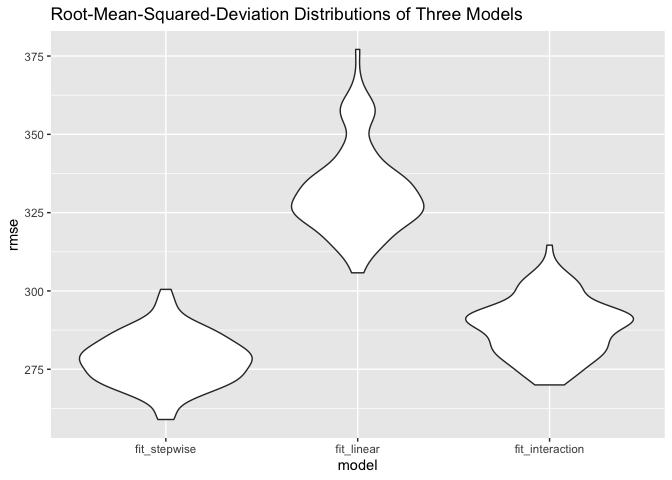
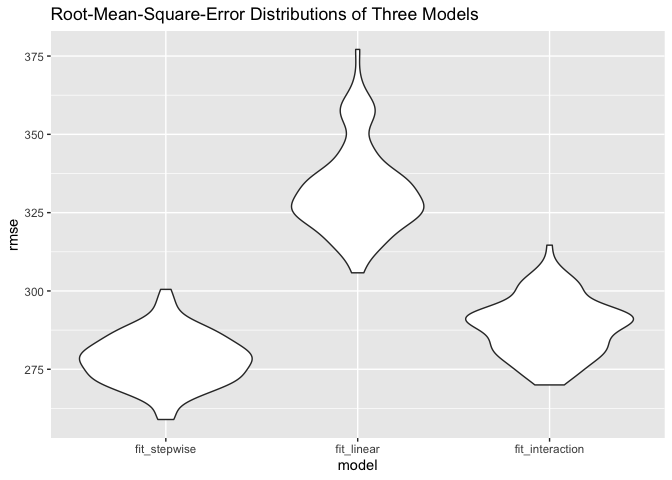
Density plots for r^2 and log(beta0*beta1) under bootstrapping are plotted by using functions like unnest(), mutate(), select(), pivot_wider(), geom_density(). Confidence intervals were obtained by using quantile() function.

Changed region(s): [[0.2812, 0.0, 0.7812, 0.0625]]

diff --git a/p8105_hw6_pz2281.md b/p8105_hw6_pz2281.md
@@ -156,8 +156,8 @@ broom::tidy(my_fit) %>% knitr::kable()
 
 However, I also want to use the step-wise model selection
 method(bi-directional) to fit a model and compare it with my
-hypothesized model. The one that has higher adjusted R^2 value would be
-selected as the hypothesized model.
+hypothesized model. The one that has higher adjusted *r*<sup>2</sup>
+value would be selected as the hypothesized model.
 
 Step-wise model selection:
 
@@ -193,8 +193,8 @@ broom::tidy(fit_stepwise) %>% knitr::kable()
 | ppwt        |    -0.9794526 |   0.5658847 |  -1.730834 | 0.0835526 |
 
 As shown in the table, the model fitted using step-wise selection has
-higher R^2 values. So the model I would use as hypothesized model is
-fit\_stepwise.
+higher *r*<sup>2</sup> value. So the model I would use as hypothesized
+model is fit\_stepwise.
 
 Plot of model residuals against fitted values:
 
@@ -294,7 +294,7 @@ cv_df %>%
   mutate(model = fct_inorder(model)) %>% 
   ggplot(aes(x = model, y = rmse)) + geom_violin() +
   labs(
-    title = "Root-Mean-Squared-Deviation Distributions of Three Models"
+    title = "Root-Mean-Square-Error Distributions of Three Models"
   )
 ```
 
@@ -332,3 +332,127 @@ cv_df %>%
 Now, it is obvious that the average rmse is lowest for the hypothesized
 model(fit\_stepwise). This model performs best comparing to the other
 two models.
+
+## Problem 2
+
+Importing the data
+
+``` r
+weather_df = 
+  rnoaa::meteo_pull_monitors(
+    c("USW00094728"),
+    var = c("PRCP", "TMIN", "TMAX"), 
+    date_min = "2017-01-01",
+    date_max = "2017-12-31") %>%
+  mutate(
+    name = recode(id, USW00094728 = "CentralPark_NY"),
+    tmin = tmin / 10,
+    tmax = tmax / 10) %>%
+  select(name, id, everything())
+```
+
+    ## Registered S3 method overwritten by 'hoardr':
+    ##   method           from
+    ##   print.cache_info httr
+
+    ## using cached file: ~/Library/Caches/R/noaa_ghcnd/USW00094728.dly
+
+    ## date created (size, mb): 2021-10-12 16:05:15 (7.604)
+
+    ## file min/max dates: 1869-01-01 / 2021-10-31
+
+Bootstrapping the data:
+
+``` r
+bs_weather = weather_df %>% 
+  bootstrap(n = 5000) %>% 
+  mutate(fit = map(strap, ~lm(tmax ~ tmin, data = .x))) %>% 
+  mutate(results = map(fit, broom::tidy)) %>% 
+  mutate(results_2 = map(fit, broom::glance))
+```
+
+Making density plots and obtaining 95% confidence intervals for
+*r̂*<sup>2</sup> and $log(\\hat{\\beta\_0}\*\\hat{\\beta\_1})$.
+
+``` r
+#Density plot for R^2 values
+bs_weather %>% 
+  unnest(results_2) %>% 
+  select(r.squared) %>% 
+  ggplot(aes(x = r.squared)) + 
+  geom_density() +
+  labs(
+    title = "Distribution of R-sqaured values",
+    x = "Estimated R-sqaured"
+  )
+```
+
+![](p8105_hw6_pz2281_files/figure-gfm/unnamed-chunk-14-1.png)<!-- -->
+
+Under repeated sampling of the weather data, the distribution of
+estimated *R*<sup>2</sup> values of the fitted model is approximately
+normal and centered around 0.91.
+
+95% confidence interval of estimated *R*<sup>2</sup>:
+
+``` r
+#Obtaining 95% confidence interval for R^2 estimates
+bs_weather %>% 
+  unnest(results_2) %>% 
+  select(r.squared) %>% 
+  summarise(
+    ci_lower = quantile(r.squared, 0.025),
+    ci_higher = quantile(r.squared, 0.975)
+  ) %>% knitr::kable()
+```
+
+| ci\_lower | ci\_higher |
+|----------:|-----------:|
+| 0.8936977 |  0.9274807 |
+
+Distribution of $log(\\hat{\\beta\_0}\*\\hat{\\beta\_1})$:
+
+``` r
+beta_bs_weather = bs_weather %>%   
+  select(-strap, -fit, -results_2) %>% 
+  unnest(results) %>% 
+  select(.id, term, estimate) %>% 
+  pivot_wider(
+    names_from = term, 
+    values_from = estimate
+  ) %>% 
+  rename(
+    id = .id, beta_0 = `(Intercept)`, beta_1 = tmin
+  ) %>% 
+  mutate(log_multiples = log(beta_0*beta_1))
+
+#density plot for log(beta_0 * beta_1)
+beta_bs_weather %>% 
+  ggplot(aes(x = log_multiples)) +
+  geom_density() +
+  labs(
+    title = "Distribution of log(beta_0*beta_1)",
+    x = "Estimated log(beta_0*beta_1)"
+  )
+```
+
+![](p8105_hw6_pz2281_files/figure-gfm/unnamed-chunk-16-1.png)<!-- -->
+
+Under repeated sampling, the value of estimated
+$log(\\hat{\\beta\_0}\*\\hat{\\beta\_1})$ is centered around 2 to 2.025.
+And there is a slightly longer tail on the left, indicating having lower
+estimated values occasionally.
+
+95% confidence interval for $log(\\hat{\\beta\_0}\*\\hat{\\beta\_1})$:
+
+``` r
+beta_bs_weather %>% 
+  summarise(
+    ci_lower = quantile(log_multiples, 0.025),
+    ci_higher = quantile(log_multiples, 0.975)
+  ) %>% knitr::kable()
+```
+
+| ci\_lower | ci\_higher |
+|----------:|-----------:|
+|  1.966942 |   2.058528 |
